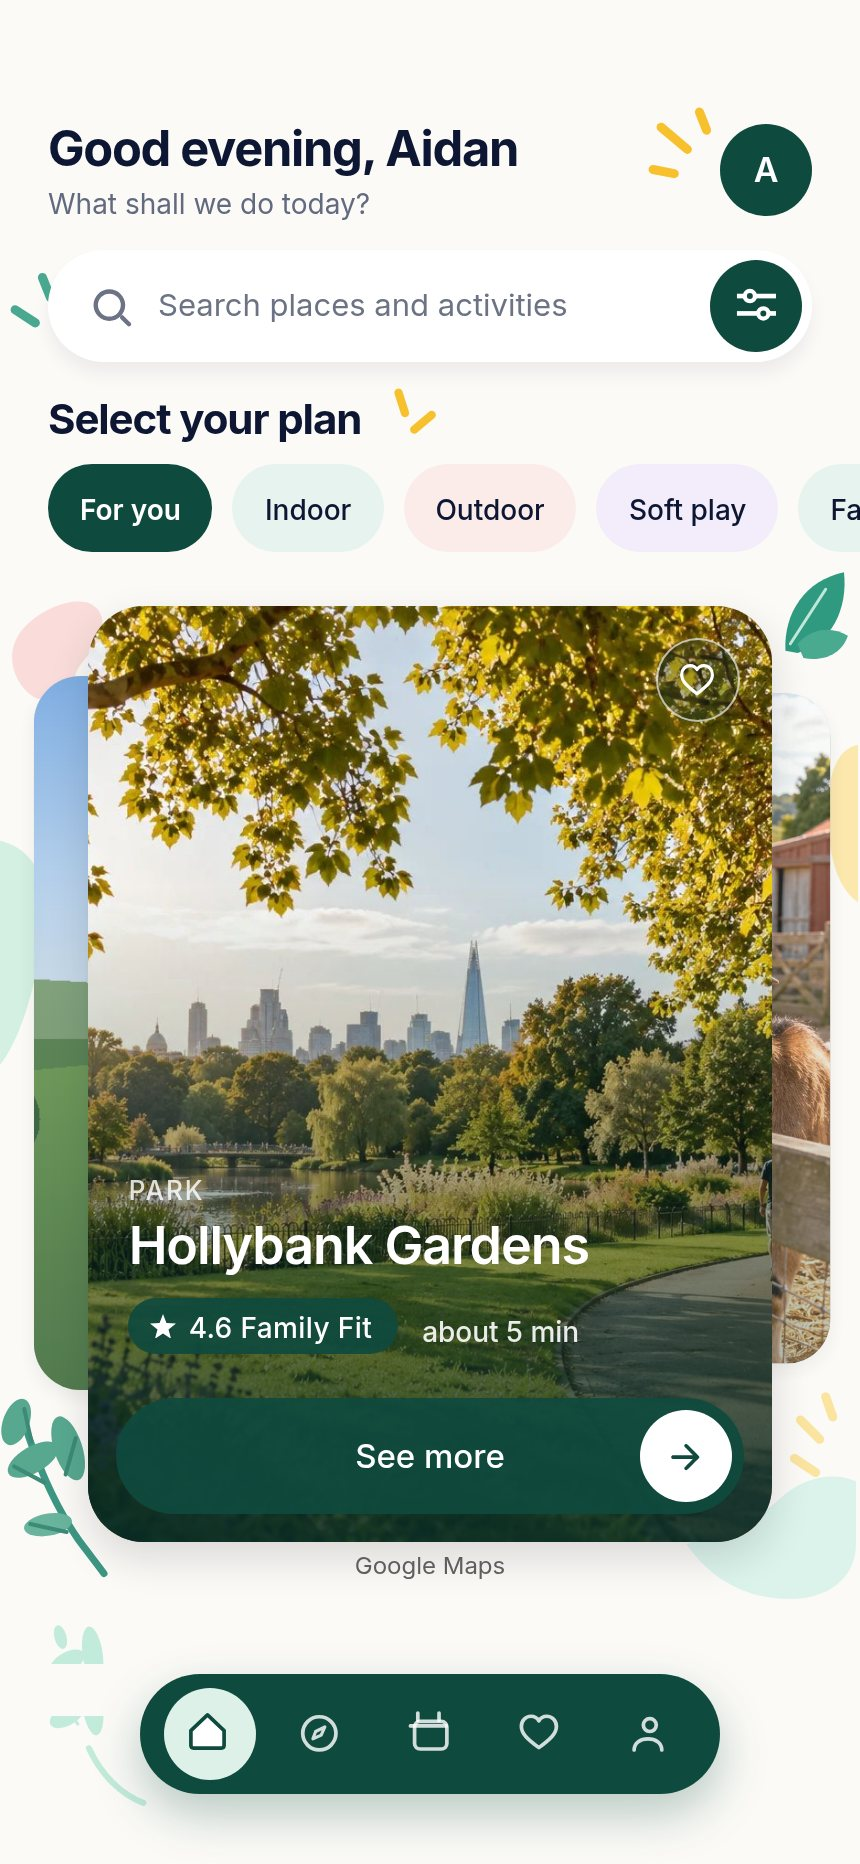
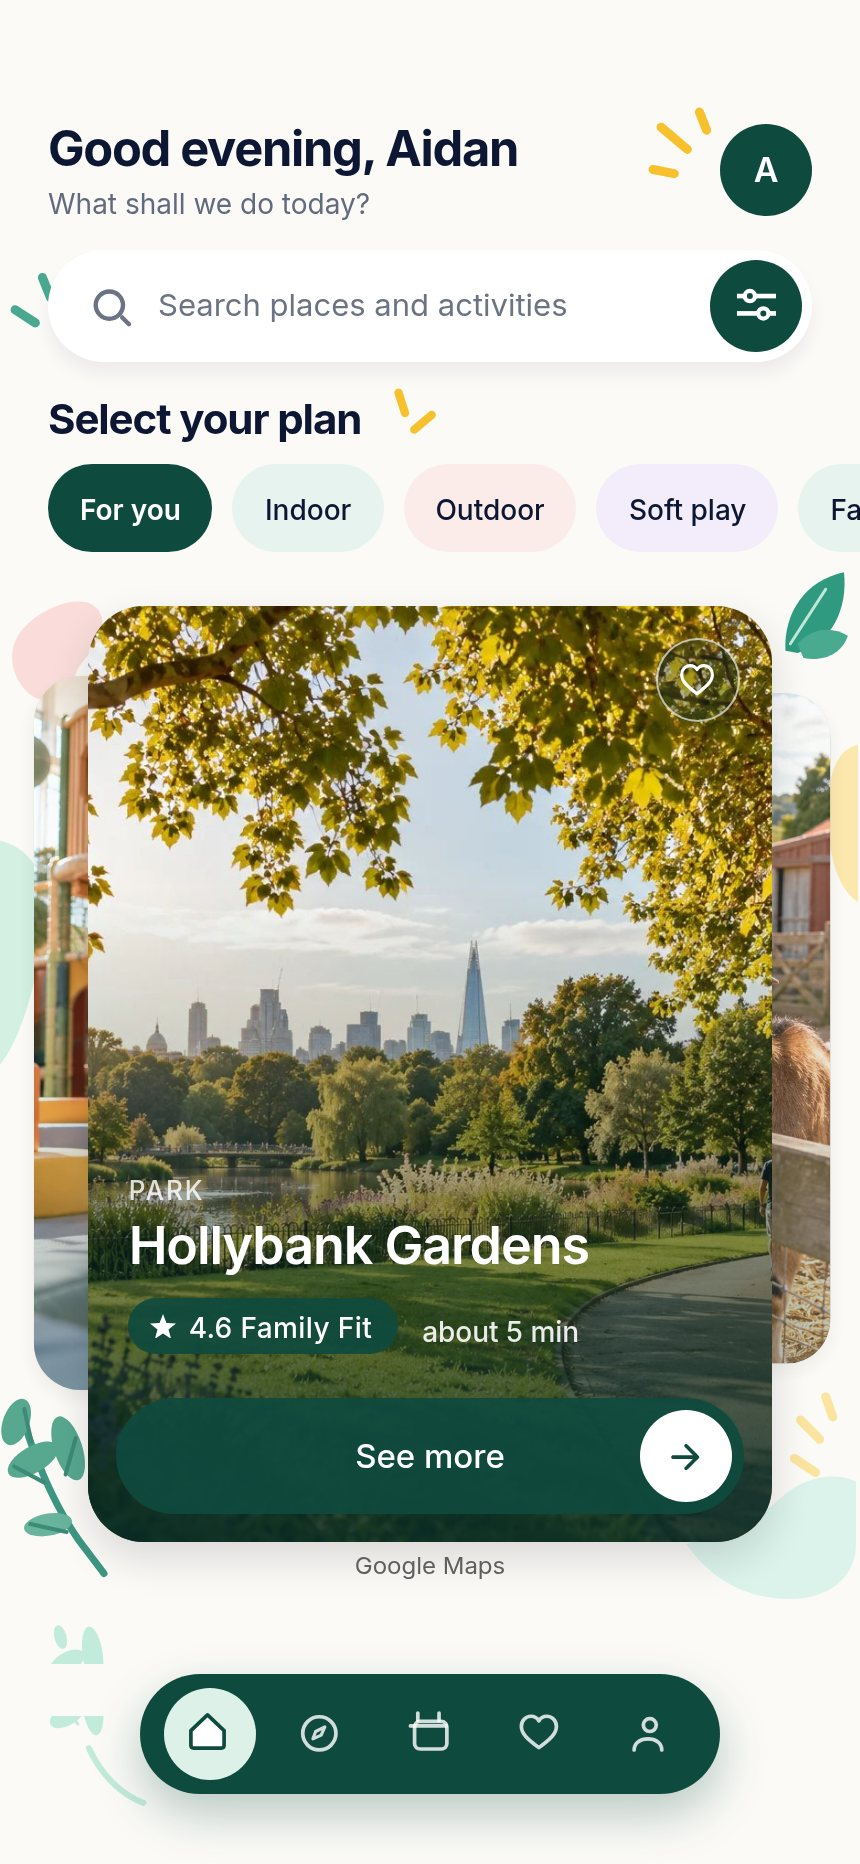
Fixtures: install synthetic soft-play, attraction and activity photographs; refresh boards
Completes the synthetic fixture set except zoo. Boards and 360/393/430 renders regenerated from
the running app; all verifiers and both accessibility audits pass with zero live-provider requests.

Claude-Session: https://claude.ai/code/session_01B1rrDUPknqyRoBSdiYqTN3

Changed region(s): [[0.0302, 0.3423, 0.1209, 0.7468]]

diff --git a/docs/PHOTOGRAPHY_ASSETS.md b/docs/PHOTOGRAPHY_ASSETS.md
@@ -27,10 +27,10 @@ deterministic fixture/demo/testing imagery, and clearly illustrative non-evident
 
 * **Welcome: all seven images installed** (generated, credited `Origin: generated`; processed by
   `scripts/prepare-welcome-photos.mjs`). `welcome-photos.test.ts` fails if any slot has no file.
-* **Fixtures: `park`, `museum`, `farm` installed** (synthetic, in `manifest.json`; processed by
-  `scripts/prepare-fixture-photos.mjs`). Still to supply: `soft_play`, `attraction`, and preferably `zoo` and
-  `activity`. Until a category has a file, its fixture venues keep the old flat-colour scene; the deliberate
-  "no photo" venues are not served an image at all.
+* **Fixtures: `park`, `museum`, `farm`, `soft_play`, `attraction`, `activity` installed** (synthetic, in
+  `manifest.json`; processed by `scripts/prepare-fixture-photos.mjs`). Still to supply: `zoo` (preferred; until it
+  exists the one zoo fixture venue keeps the flat-colour scene). The deliberate "no photo" venues are not served an
+  image at all.
 
 ## What I need from you (the environment cannot generate images)
 
